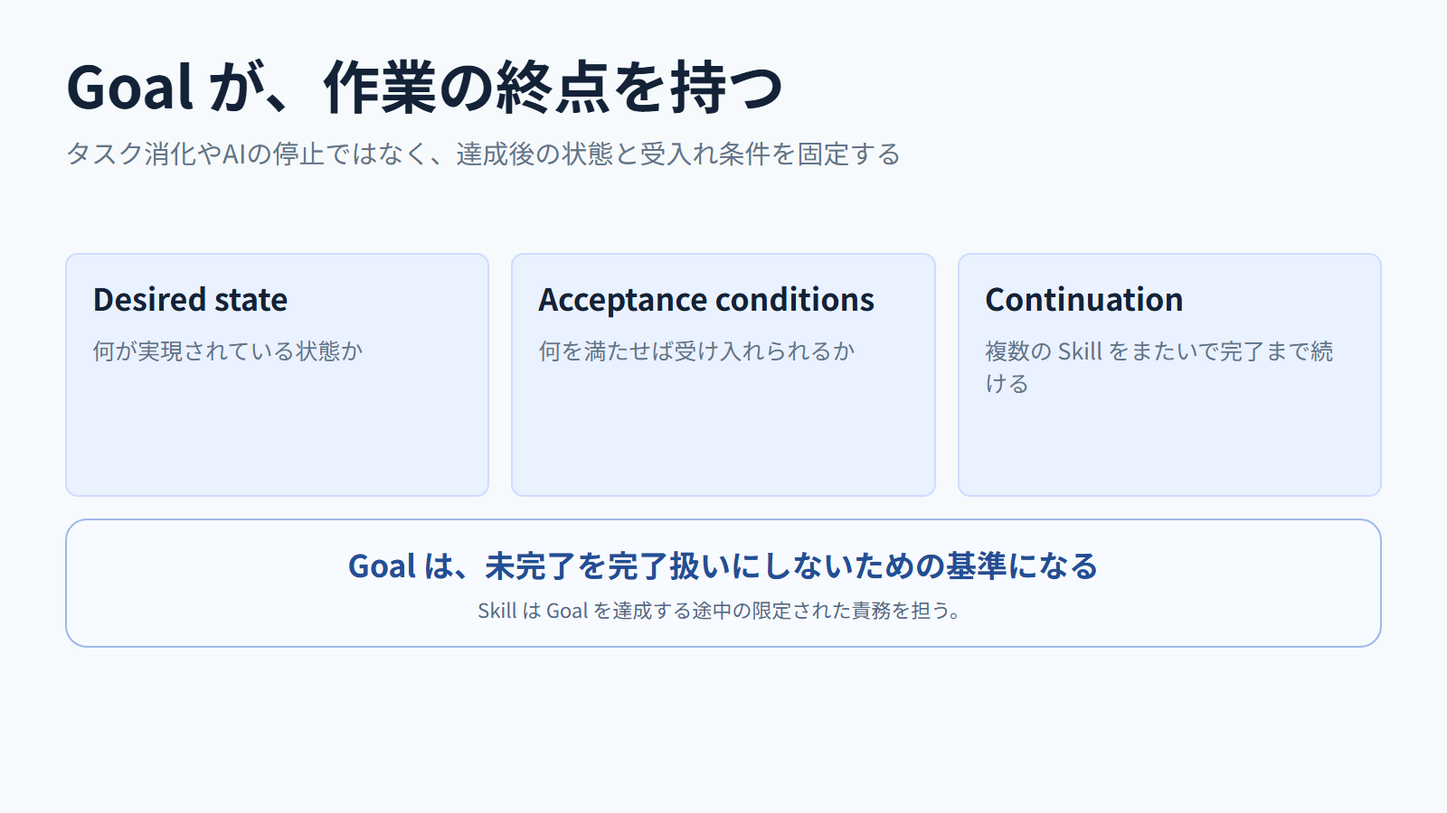
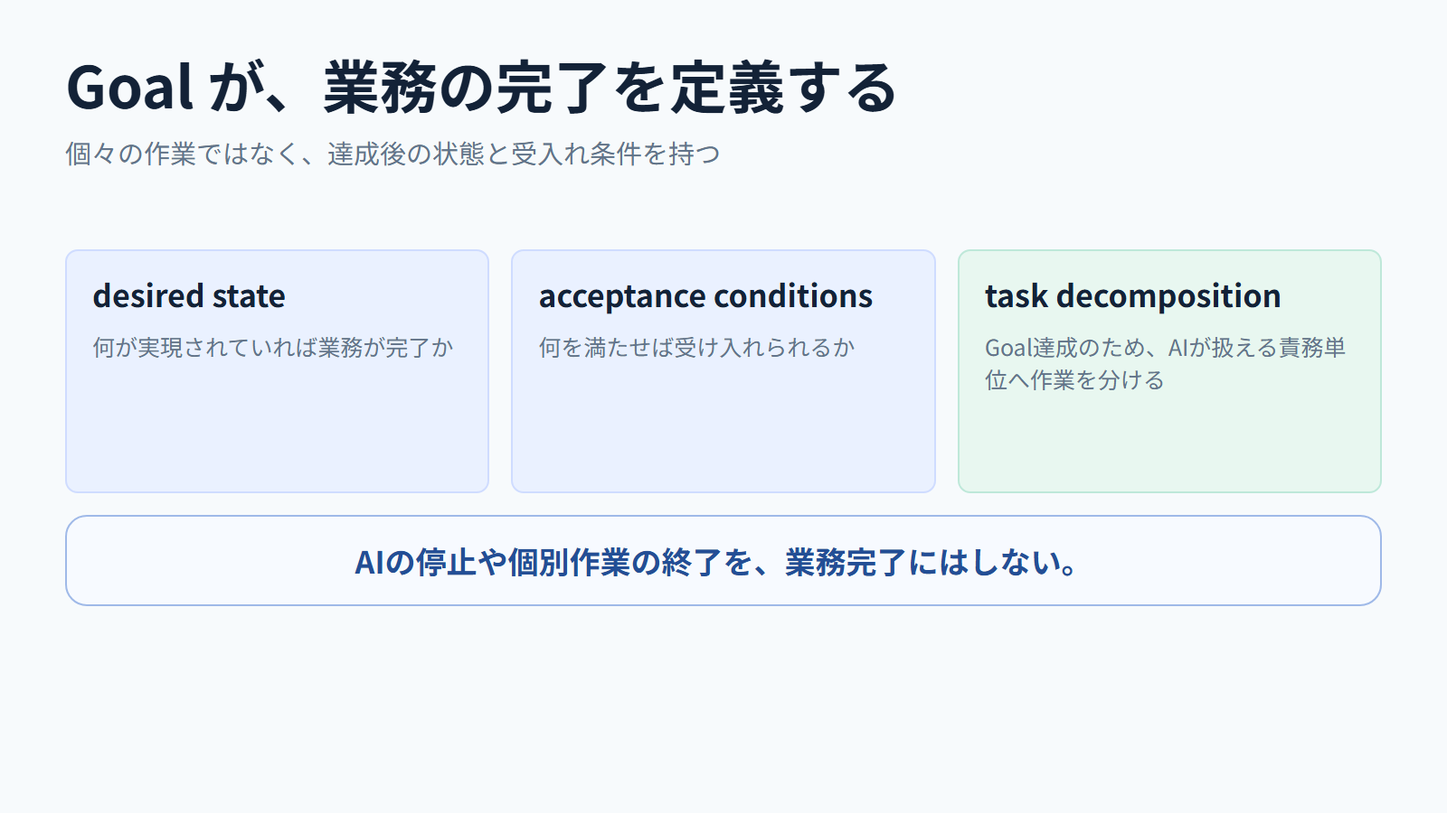
Rebuild Deck 055 execution narrative

diff --git a/site/ja/slides/why-ai-organization-needed/index.html b/site/ja/slides/why-ai-organization-needed/index.html
@@ -19,16 +19,16 @@
     </header>
 
     <section class="slide-list">
-      <article class="slide-card" tabindex="0" data-slide-link><img src="./00_intro.png" alt="はじめに" /><div class="slide-meta">00. はじめに</div></article>
-      <article class="slide-card" tabindex="0" data-slide-link><img src="./01_title.png" alt="AI活用を継続可能な業務実行に変える" /><div class="slide-meta">01. タイトル</div></article>
-      <article class="slide-card" tabindex="0" data-slide-link><img src="./02_individual_limit.png" alt="個人利用だけでは、仕事の状態が残らない" /><div class="slide-meta">02. 個人利用の限界</div></article>
-      <article class="slide-card" tabindex="0" data-slide-link><img src="./03_input_organization.png" alt="Goal が、作業の終点を持つ" /><div class="slide-meta">03. Goal</div></article>
-      <article class="slide-card" tabindex="0" data-slide-link><img src="./04_scattered_controls.png" alt="semantic routing が、次の責務を選ぶ" /><div class="slide-meta">04. semantic routing</div></article>
-      <article class="slide-card" tabindex="0" data-slide-link><img src="./05_organization_role.png" alt="Skill は、AI の責務を限定する" /><div class="slide-meta">05. Skill</div></article>
-      <article class="slide-card" tabindex="0" data-slide-link><img src="./06_organization_value.png" alt="Knowledge は、必要な XID だけを読む" /><div class="slide-meta">06. Knowledge</div></article>
-      <article class="slide-card" tabindex="0" data-slide-link><img src="./07_human_control_unit.png" alt="workflow protocol が、作業漏れを検査する" /><div class="slide-meta">07. workflow protocol</div></article>
+      <article class="slide-card" tabindex="0" data-slide-link><img src="./00_intro.png" alt="AI活用を継続可能な業務実行に変える" /><div class="slide-meta">00. 主題</div></article>
+      <article class="slide-card" tabindex="0" data-slide-link><img src="./01_title.png" alt="毎回のプロンプト主体の利用方法では、業務の状態が残らない" /><div class="slide-meta">01. 状態が残らない問題</div></article>
+      <article class="slide-card" tabindex="0" data-slide-link><img src="./02_individual_limit.png" alt="AIは、途中で作業を終えても完了として扱いやすい" /><div class="slide-meta">02. 途中終了</div></article>
+      <article class="slide-card" tabindex="0" data-slide-link><img src="./03_input_organization.png" alt="Goal が、業務の完了を定義する" /><div class="slide-meta">03. Goal</div></article>
+      <article class="slide-card" tabindex="0" data-slide-link><img src="./04_scattered_controls.png" alt="AIには、限定した責務を担当させる" /><div class="slide-meta">04. Skill</div></article>
+      <article class="slide-card" tabindex="0" data-slide-link><img src="./05_organization_role.png" alt="semantic routing が、分割した作業をGoalへつなぐ" /><div class="slide-meta">05. semantic routing</div></article>
+      <article class="slide-card" tabindex="0" data-slide-link><img src="./06_organization_value.png" alt="workflow protocol が、未完了の仕事を残す" /><div class="slide-meta">06. workflow protocol</div></article>
+      <article class="slide-card" tabindex="0" data-slide-link><img src="./07_human_control_unit.png" alt="AI活用には、組織固有のKnowledgeが必要" /><div class="slide-meta">07. Knowledge</div></article>
       <article class="slide-card" tabindex="0" data-slide-link><img src="./08_ai_control_unit.png" alt="検証と品質受入れを分ける" /><div class="slide-meta">08. 検証と受入れ</div></article>
-      <article class="slide-card" tabindex="0" data-slide-link><img src="./09_conclusion.png" alt="継続と改善の仕組みを持つ" /><div class="slide-meta">09. 結論</div></article>
+      <article class="slide-card" tabindex="0" data-slide-link><img src="./09_conclusion.png" alt="ログから、次の業務実行を改善する" /><div class="slide-meta">09. 改善</div></article>
     </section>
   </main>
 

diff --git a/site/sources/ja/slides/why-ai-organization-needed/index.html b/site/sources/ja/slides/why-ai-organization-needed/index.html
@@ -19,16 +19,16 @@
     </header>
 
     <section class="slide-list">
-      <article class="slide-card" tabindex="0" data-slide-link><img src="./00_intro.png" alt="はじめに" /><div class="slide-meta">00. はじめに</div></article>
-      <article class="slide-card" tabindex="0" data-slide-link><img src="./01_title.png" alt="AI活用を継続可能な業務実行に変える" /><div class="slide-meta">01. タイトル</div></article>
-      <article class="slide-card" tabindex="0" data-slide-link><img src="./02_individual_limit.png" alt="個人利用だけでは、仕事の状態が残らない" /><div class="slide-meta">02. 個人利用の限界</div></article>
-      <article class="slide-card" tabindex="0" data-slide-link><img src="./03_input_organization.png" alt="Goal が、作業の終点を持つ" /><div class="slide-meta">03. Goal</div></article>
-      <article class="slide-card" tabindex="0" data-slide-link><img src="./04_scattered_controls.png" alt="semantic routing が、次の責務を選ぶ" /><div class="slide-meta">04. semantic routing</div></article>
-      <article class="slide-card" tabindex="0" data-slide-link><img src="./05_organization_role.png" alt="Skill は、AI の責務を限定する" /><div class="slide-meta">05. Skill</div></article>
-      <article class="slide-card" tabindex="0" data-slide-link><img src="./06_organization_value.png" alt="Knowledge は、必要な XID だけを読む" /><div class="slide-meta">06. Knowledge</div></article>
-      <article class="slide-card" tabindex="0" data-slide-link><img src="./07_human_control_unit.png" alt="workflow protocol が、作業漏れを検査する" /><div class="slide-meta">07. workflow protocol</div></article>
+      <article class="slide-card" tabindex="0" data-slide-link><img src="./00_intro.png" alt="AI活用を継続可能な業務実行に変える" /><div class="slide-meta">00. 主題</div></article>
+      <article class="slide-card" tabindex="0" data-slide-link><img src="./01_title.png" alt="毎回のプロンプト主体の利用方法では、業務の状態が残らない" /><div class="slide-meta">01. 状態が残らない問題</div></article>
+      <article class="slide-card" tabindex="0" data-slide-link><img src="./02_individual_limit.png" alt="AIは、途中で作業を終えても完了として扱いやすい" /><div class="slide-meta">02. 途中終了</div></article>
+      <article class="slide-card" tabindex="0" data-slide-link><img src="./03_input_organization.png" alt="Goal が、業務の完了を定義する" /><div class="slide-meta">03. Goal</div></article>
+      <article class="slide-card" tabindex="0" data-slide-link><img src="./04_scattered_controls.png" alt="AIには、限定した責務を担当させる" /><div class="slide-meta">04. Skill</div></article>
+      <article class="slide-card" tabindex="0" data-slide-link><img src="./05_organization_role.png" alt="semantic routing が、分割した作業をGoalへつなぐ" /><div class="slide-meta">05. semantic routing</div></article>
+      <article class="slide-card" tabindex="0" data-slide-link><img src="./06_organization_value.png" alt="workflow protocol が、未完了の仕事を残す" /><div class="slide-meta">06. workflow protocol</div></article>
+      <article class="slide-card" tabindex="0" data-slide-link><img src="./07_human_control_unit.png" alt="AI活用には、組織固有のKnowledgeが必要" /><div class="slide-meta">07. Knowledge</div></article>
       <article class="slide-card" tabindex="0" data-slide-link><img src="./08_ai_control_unit.png" alt="検証と品質受入れを分ける" /><div class="slide-meta">08. 検証と受入れ</div></article>
-      <article class="slide-card" tabindex="0" data-slide-link><img src="./09_conclusion.png" alt="継続と改善の仕組みを持つ" /><div class="slide-meta">09. 結論</div></article>
+      <article class="slide-card" tabindex="0" data-slide-link><img src="./09_conclusion.png" alt="ログから、次の業務実行を改善する" /><div class="slide-meta">09. 改善</div></article>
     </section>
   </main>
 

diff --git a/human-docs/ja/assets/055_why_ai_organization_needed/02_individual_limit.html b/human-docs/ja/assets/055_why_ai_organization_needed/02_individual_limit.html
@@ -1,4 +1,4 @@
-<!doctype html><html lang="ja"><head><meta charset="utf-8" /><style>:root {
+<!doctype html><html lang="ja"><head><meta charset="utf-8"><style>:root {
   --bg: linear-gradient(135deg, #f7fafc 0%, #eef4fb 100%);
   --panel: #ffffff;
   --ink: #132237;
@@ -119,10 +119,4 @@ body {
   line-height: 1.55;
   color: var(--muted);
 }
-</style></head><body>
-    <div class="canvas">
-      <h1 class="title">個人利用だけでは、仕事の状態が残らない</h1>
-      <p class="subtitle">プロンプトと会話だけでは、次の人が同じ仕事を続けにくい</p>
-      <div class="compare" style="margin-top:84px;"><div class="panel"><span class="badge" style="font-size:20px; background:#eef2f6; color:#6b7a8c;">個人の会話</span><div class="stack"><div class="box soft-gray">判断材料が会話に散る</div><div class="box soft-gray">未確認点が残る</div><div class="box soft-gray">停止時の次作業が曖昧</div></div></div><div class="panel"><span class="badge b-red" style="font-size:20px;">組織で起きる問題</span><div class="stack"><div class="box soft-red">再説明と再調査が増える</div><div class="box soft-red">作業漏れを検出しにくい</div><div class="box soft-red">担当変更で品質が揺れる</div></div></div></div>
-      <div class="summary-band"><strong>個人の成功を、組織が再現できる仕事の状態へ変える必要がある</strong><span>その出発点が Goal と記録である。</span></div>
-    </div></body></html>
+</style></head><body><div class="canvas"><h1 class="title">AIは、途中で作業を終えても完了として扱いやすい</h1><p class="subtitle">出力終了と業務完了は、同じではない</p><div class="grid-3" style="margin-top:88px;"><div class="card soft-blue"><h3>AIの応答</h3><p>その時点の要求に対して出力を返す</p></div><div class="card soft-blue"><h3>残りやすい問題</h3><p>未了項目、確認待ち、例外、根拠</p></div><div class="card soft-red"><h3>起きる誤認</h3><p>出力が終わったので業務も終わったと扱う</p></div></div><div class="summary-band"><strong>業務全体の未了事項と受入れ条件は、別の仕組みで残す必要がある。</strong></div></div></body></html>

diff --git a/human-docs/ja/assets/055_why_ai_organization_needed/08_ai_control_unit.html b/human-docs/ja/assets/055_why_ai_organization_needed/08_ai_control_unit.html
@@ -1,4 +1,4 @@
-<!doctype html><html lang="ja"><head><meta charset="utf-8" /><style>:root {
+<!doctype html><html lang="ja"><head><meta charset="utf-8"><style>:root {
   --bg: linear-gradient(135deg, #f7fafc 0%, #eef4fb 100%);
   --panel: #ffffff;
   --ink: #132237;
@@ -119,7 +119,4 @@ body {
   line-height: 1.55;
   color: var(--muted);
 }
-</style></head><body>
-    <div class="canvas"><h1 class="title">検証と品質受入れを分ける</h1><p class="subtitle">作業記録の完全性と、成果物を受け入れるかは別の判断である</p>
-      <div class="compare" style="margin-top:88px;"><div class="panel"><span class="badge b-blue" style="font-size:20px;">deterministic verification</span><div class="stack"><div class="box soft-blue">workflow の記録に漏れがないか</div><div class="box soft-blue">役割と progression が正しいか</div><div class="box soft-blue">成果物の内容は判定しない</div></div></div><div class="panel"><span class="badge b-green" style="font-size:20px;">quality and human acceptance</span><div class="stack"><div class="box soft-green">成果物が受入れ可能か</div><div class="box soft-green">品質レビューが必要か</div><div class="box soft-green">Goal、例外、承認を人間が担う</div></div></div></div>
-      <div class="summary-band"><strong>検証を通っても、内容の受入れを自動で主張しない</strong><span>人間の意思決定とAIの実行責務を混ぜない。</span></div></div></body></html>
+</style></head><body><div class="canvas"><h1 class="title">作業漏れの検証と、成果物の受入れを分ける</h1><p class="subtitle">作業記録の完全性と、成果物を採用するかは別の判断である</p><div class="grid-3" style="margin-top:88px;"><div class="card soft-blue"><h3>xrefkit skill verify</h3><p>work item、artifact、concern、role、phaseを検査する</p></div><div class="card soft-blue"><h3>quality review</h3><p>必要なとき、成果物の受入れ可能性を確認する</p></div><div class="card soft-green"><h3>human decision</h3><p>Goal、承認、例外を判断する</p></div></div><div class="summary-band"><strong>決定的な検証は、成果物内容の自動承認を主張しない。</strong></div></div></body></html>

diff --git a/human-docs/ja/assets/055_why_ai_organization_needed/07_human_control_unit.html b/human-docs/ja/assets/055_why_ai_organization_needed/07_human_control_unit.html
@@ -1,4 +1,4 @@
-<!doctype html><html lang="ja"><head><meta charset="utf-8" /><style>:root {
+<!doctype html><html lang="ja"><head><meta charset="utf-8"><style>:root {
   --bg: linear-gradient(135deg, #f7fafc 0%, #eef4fb 100%);
   --panel: #ffffff;
   --ink: #132237;
@@ -119,7 +119,4 @@ body {
   line-height: 1.55;
   color: var(--muted);
 }
-</style></head><body>
-    <div class="canvas"><h1 class="title">workflow protocol が、作業漏れを検査する</h1><p class="subtitle">各 Skill Run に、実行に必要な状態と根拠を残す</p>
-      <div class="grid-4" style="margin-top:88px; gap:16px;"><div class="card soft-blue"><h3>work item</h3><p>何を行うか</p></div><div class="card soft-blue"><h3>artifact / evidence</h3><p>何を出し、何に基づくか</p></div><div class="card soft-blue"><h3>unknown / risk</h3><p>何が未確定か</p></div><div class="card soft-blue"><h3>handoff</h3><p>次に誰が何をするか</p></div></div>
-      <div class="summary-band"><strong><code>xrefkit skill verify</code> は、記録された workflow progression を決定的に検査する</strong><span>AI の自己申告ではなく、work item、artifact、concern、役割、phase を確認する。</span></div></div></body></html>
+</style></head><body><div class="canvas"><h1 class="title">AI活用には、組織固有のKnowledgeが必要</h1><p class="subtitle">一般化された学習知識だけでは、組織の業務判断を支えられない</p><div class="grid-3" style="margin-top:88px;"><div class="card soft-blue"><h3>AIが持つ一般知識</h3><p>概念、方法、一般的な事例</p></div><div class="card soft-blue"><h3>組織固有Knowledge</h3><p>ルール、対象情報、例外、過去の判断、責任境界</p></div><div class="card soft-green"><h3>段階的な参照</h3><p>XIDを選び、必要な本文だけを判断へ使う</p></div></div><div class="summary-band"><strong>Knowledgeは、AIの一般知識を組織固有の業務判断へ接続する。</strong></div></div></body></html>

diff --git a/human-docs/ja/assets/055_why_ai_organization_needed/09_conclusion.html b/human-docs/ja/assets/055_why_ai_organization_needed/09_conclusion.html
@@ -1,4 +1,4 @@
-<!doctype html><html lang="ja"><head><meta charset="utf-8" /><style>:root {
+<!doctype html><html lang="ja"><head><meta charset="utf-8"><style>:root {
   --bg: linear-gradient(135deg, #f7fafc 0%, #eef4fb 100%);
   --panel: #ffffff;
   --ink: #132237;
@@ -119,7 +119,4 @@ body {
   line-height: 1.55;
   color: var(--muted);
 }
-</style></head><body>
-    <div class="canvas"><h1 class="title">継続と改善の仕組みを持つ</h1><p class="subtitle">速度だけでなく、再開、handoff、検証、改善までを仕事として扱う</p>
-      <div class="grid-3" style="margin-top:96px;"><div class="card soft-blue"><h3>継続できる</h3><p>Goal とログから、途中で止まっても再開できる</p></div><div class="card soft-green"><h3>検証できる</h3><p>作業漏れと品質受入れを別々に確認できる</p></div><div class="card soft-orange"><h3>改善できる</h3><p>routing、Skill、Knowledge、XID利用を観測して直せる</p></div></div>
-      <div class="summary-band"><strong>AI の速さを、手戻り削減と継続可能な業務実行へ変える</strong><span>Goal、Skill、Knowledge、workflow protocol を接続して実現する。</span></div></div></body></html>
+</style></head><body><div class="canvas"><h1 class="title">ログから、次の業務実行を改善する</h1><p class="subtitle">観測は監査の終点ではなく、次の実行を良くする入力である</p><div class="grid-3" style="margin-top:88px;"><div class="card soft-blue"><h3>相関する</h3><p>Skill RunとMCPをrun_idで結び付ける</p></div><div class="card soft-blue"><h3>区別して見る</h3><p>XIDの選択、解決、ロード、適用を分ける</p></div><div class="card soft-green"><h3>正本を改善する</h3><p>routing、Skill、Knowledgeを証拠から更新する</p></div></div><div class="summary-band"><strong>継続・検証・改善できることが、AI活用を業務実行に変える。</strong></div></div></body></html>

diff --git a/human-docs/ja/assets/055_why_ai_organization_needed/00_intro.html b/human-docs/ja/assets/055_why_ai_organization_needed/00_intro.html
@@ -1,4 +1,4 @@
-<!doctype html><html lang="ja"><head><meta charset="utf-8" /><style>:root {
+<!doctype html><html lang="ja"><head><meta charset="utf-8"><style>:root {
   --bg: linear-gradient(135deg, #f7fafc 0%, #eef4fb 100%);
   --panel: #ffffff;
   --ink: #132237;
@@ -119,15 +119,4 @@ body {
   line-height: 1.55;
   color: var(--muted);
 }
-</style></head><body>
-    <div class="canvas">
-      <h1 class="title">はじめに</h1>
-      <p class="subtitle">AI の回答を、組織の完了した仕事へ変えるには何が必要か</p>
-
-  <div class="grid-3" style="margin-top:92px;">
-    <div class="card soft-blue"><h3>AI は速く答える</h3><p>生成と調査をすばやく進められる</p></div>
-<div class="card soft-blue"><h3>しかし仕事は残る</h3><p>確認、根拠、次の担当、受入れが会話に埋もれる</p></div>
-<div class="card soft-blue"><h3>運用が必要になる</h3><p>途中で止まっても、仕事を失わずに続ける</p></div>
-  </div>
-      <div class="summary-band"><strong>回答が出たことと、仕事が完了したことは同じではない</strong><span>継続、検証、改善できる運用を持つことが必要になる。</span></div>
-    </div></body></html>
+</style></head><body><div class="canvas"><h1 class="title">AI活用を継続可能な業務実行に変える</h1><p class="subtitle">途中で止まっても、再開・検証・受入れ・改善できる仕事にする</p><div class="grid-3" style="margin-top:88px;"><div class="card soft-blue"><h3>継続</h3><p>中断しても、未完了を残して再開できる</p></div><div class="card soft-blue"><h3>検証</h3><p>作業漏れと根拠を確認できる</p></div><div class="card soft-green"><h3>改善</h3><p>実行ログから次の運用を良くする</p></div></div><div class="summary-band"><strong>AI活用を、単発の会話から継続可能な業務実行へ変える。</strong></div></div></body></html>

diff --git a/human-docs/ja/assets/055_why_ai_organization_needed/03_input_organization.html b/human-docs/ja/assets/055_why_ai_organization_needed/03_input_organization.html
@@ -1,4 +1,4 @@
-<!doctype html><html lang="ja"><head><meta charset="utf-8" /><style>:root {
+<!doctype html><html lang="ja"><head><meta charset="utf-8"><style>:root {
   --bg: linear-gradient(135deg, #f7fafc 0%, #eef4fb 100%);
   --panel: #ffffff;
   --ink: #132237;
@@ -119,12 +119,4 @@ body {
   line-height: 1.55;
   color: var(--muted);
 }
-</style></head><body>
-    <div class="canvas"><h1 class="title">Goal が、作業の終点を持つ</h1><p class="subtitle">タスク消化やAIの停止ではなく、達成後の状態と受入れ条件を固定する</p>
-
-  <div class="grid-3" style="margin-top:92px;">
-    <div class="card soft-blue"><h3>Desired state</h3><p>何が実現されている状態か</p></div>
-<div class="card soft-blue"><h3>Acceptance conditions</h3><p>何を満たせば受け入れられるか</p></div>
-<div class="card soft-blue"><h3>Continuation</h3><p>複数の Skill をまたいで完了まで続ける</p></div>
-  </div>
-      <div class="summary-band"><strong>Goal は、未完了を完了扱いにしないための基準になる</strong><span>Skill は Goal を達成する途中の限定された責務を担う。</span></div></div></body></html>
+</style></head><body><div class="canvas"><h1 class="title">Goal が、業務の完了を定義する</h1><p class="subtitle">個々の作業ではなく、達成後の状態と受入れ条件を持つ</p><div class="grid-3" style="margin-top:88px;"><div class="card soft-blue"><h3>desired state</h3><p>何が実現されていれば業務が完了か</p></div><div class="card soft-blue"><h3>acceptance conditions</h3><p>何を満たせば受け入れられるか</p></div><div class="card soft-green"><h3>task decomposition</h3><p>Goal達成のため、AIが扱える責務単位へ作業を分ける</p></div></div><div class="summary-band"><strong>AIの停止や個別作業の終了を、業務完了にはしない。</strong></div></div></body></html>

diff --git a/human-docs/ja/assets/055_why_ai_organization_needed/06_organization_value.html b/human-docs/ja/assets/055_why_ai_organization_needed/06_organization_value.html
@@ -1,4 +1,4 @@
-<!doctype html><html lang="ja"><head><meta charset="utf-8" /><style>:root {
+<!doctype html><html lang="ja"><head><meta charset="utf-8"><style>:root {
   --bg: linear-gradient(135deg, #f7fafc 0%, #eef4fb 100%);
   --panel: #ffffff;
   --ink: #132237;
@@ -119,7 +119,4 @@ body {
   line-height: 1.55;
   color: var(--muted);
 }
-</style></head><body>
-    <div class="canvas"><h1 class="title">Knowledge は、必要な XID だけを読む</h1><p class="subtitle">対象一覧と詳細を分け、必要な判断材料だけを段階的に取り込む</p>
-      <div class="grid-3" style="margin-top:98px;"><div class="card soft-blue"><h3>catalog</h3><p>候補の領域と XID を一覧で見つける</p></div><div class="card soft-blue"><h3>select and resolve</h3><p>必要な XID の本文だけを取得する</p></div><div class="card soft-blue"><h3>apply</h3><p>判断・成果物との関係を記録する</p></div></div>
-      <div class="summary-band"><strong>全体を毎回読み込まないことで、コンテキスト汚染を抑える</strong><span>使用状況はログから確認し、不要・不足の Knowledge を改善する。</span></div></div></body></html>
+</style></head><body><div class="canvas"><h1 class="title">workflow protocol が、未完了の仕事を残す</h1><p class="subtitle">Skill Runごとに状態と根拠を記録し、次の責任地点へ渡す</p><div class="grid-3" style="margin-top:88px;"><div class="card soft-blue"><h3>実行記録</h3><p>work item、artifact、evidenceを残す</p></div><div class="card soft-blue"><h3>未確定の記録</h3><p>unknown、risk、judgmentを明示する</p></div><div class="card soft-green"><h3>次へ渡す</h3><p>handoffとcloseで、次の責任地点を固定する</p></div></div><div class="summary-band"><strong>AIが途中で止まっても、次のSkillまたは人間が状態から続けられる。</strong></div></div></body></html>

diff --git a/human-docs/ja/assets/055_why_ai_organization_needed/04_scattered_controls.html b/human-docs/ja/assets/055_why_ai_organization_needed/04_scattered_controls.html
@@ -1,4 +1,4 @@
-<!doctype html><html lang="ja"><head><meta charset="utf-8" /><style>:root {
+<!doctype html><html lang="ja"><head><meta charset="utf-8"><style>:root {
   --bg: linear-gradient(135deg, #f7fafc 0%, #eef4fb 100%);
   --panel: #ffffff;
   --ink: #132237;
@@ -119,7 +119,4 @@ body {
   line-height: 1.55;
   color: var(--muted);
 }
-</style></head><body>
-    <div class="canvas"><h1 class="title">semantic routing が、次の責務を選ぶ</h1><p class="subtitle">Goal と現在状態から、次に必要な Skill を選択する</p>
-      <div class="grid-3" style="margin-top:98px;"><div class="card soft-blue"><h3>Goal と現在状態</h3><p>何を達成し、何が未了かを確認する</p></div><div class="card soft-blue"><h3>semantic routing</h3><p>候補の Skill から適用可能な責務を選ぶ</p></div><div class="card soft-blue"><h3>次の Skill Run</h3><p>選んだ責務を実行し、結果を Goal へ戻す</p></div></div>
-      <div class="summary-band"><strong>人が毎回一覧から手選びするのではなく、状態に応じて責務を選ぶ</strong><span>選択理由も記録し、後で見直せるようにする。</span></div></div></body></html>
+</style></head><body><div class="canvas"><h1 class="title">AIには、限定した責務を担当させる</h1><p class="subtitle">分割した作業を、判断とhandoffの境界を持つSkillとして扱う</p><div class="grid-3" style="margin-top:88px;"><div class="card soft-blue"><h3>担当範囲</h3><p>何を行い、どこまで責任を持つか</p></div><div class="card soft-blue"><h3>判断と入出力</h3><p>何を見て、何を返すか</p></div><div class="card soft-green"><h3>Knowledgeとhandoff</h3><p>何を参照し、どこで次へ渡すか</p></div></div><div class="summary-band"><strong>責務を限定することで、AIは必要な判断と成果物に集中できる。</strong></div></div></body></html>

diff --git a/human-docs/ja/assets/055_why_ai_organization_needed/05_organization_role.html b/human-docs/ja/assets/055_why_ai_organization_needed/05_organization_role.html
@@ -1,4 +1,4 @@
-<!doctype html><html lang="ja"><head><meta charset="utf-8" /><style>:root {
+<!doctype html><html lang="ja"><head><meta charset="utf-8"><style>:root {
   --bg: linear-gradient(135deg, #f7fafc 0%, #eef4fb 100%);
   --panel: #ffffff;
   --ink: #132237;
@@ -119,12 +119,4 @@ body {
   line-height: 1.55;
   color: var(--muted);
 }
-</style></head><body>
-    <div class="canvas"><h1 class="title">Skill は、AI の責務を限定する</h1><p class="subtitle">一つのAIに全てを任せず、必要な判断と成果物へ集中させる</p>
-
-  <div class="grid-3" style="margin-top:92px;">
-    <div class="card soft-blue"><h3>責務と判断</h3><p>何を担当し、どの方法で判断するか</p></div>
-<div class="card soft-blue"><h3>入出力と Knowledge</h3><p>何を受け取り、何を返し、何を参照するか</p></div>
-<div class="card soft-blue"><h3>handoff 境界</h3><p>どこで次の責務や人間へ渡すか</p></div>
-  </div>
-      <div class="summary-band"><strong>責務が限定されるほど、AI は必要な判断に集中できる</strong><span>Skill は方法を持ち、Knowledge は判断材料を持つ。</span></div></div></body></html>
+</style></head><body><div class="canvas"><h1 class="title">semantic routing が、分割した作業をGoalへつなぐ</h1><p class="subtitle">Goalと現在状態から、次に必要なSkillを選ぶ</p><div class="grid-3" style="margin-top:88px;"><div class="card soft-blue"><h3>Goalと現在状態</h3><p>何が達成済みで、何が未了か</p></div><div class="card soft-blue"><h3>semantic routing</h3><p>候補から次に必要な責務を選ぶ</p></div><div class="card soft-green"><h3>次のSkill Run</h3><p>個別完了をGoal達成と混同せず、終点へ進める</p></div></div><div class="summary-band"><strong>分割された作業を、全体の目的から切り離さない。</strong></div></div></body></html>

diff --git a/human-docs/ja/assets/055_why_ai_organization_needed/01_title.html b/human-docs/ja/assets/055_why_ai_organization_needed/01_title.html
@@ -1,4 +1,4 @@
-<!doctype html><html lang="ja"><head><meta charset="utf-8" /><style>:root {
+<!doctype html><html lang="ja"><head><meta charset="utf-8"><style>:root {
   --bg: linear-gradient(135deg, #f7fafc 0%, #eef4fb 100%);
   --panel: #ffffff;
   --ink: #132237;
@@ -119,10 +119,4 @@ body {
   line-height: 1.55;
   color: var(--muted);
 }
-</style></head><body>
-    <div class="canvas">
-      <h1 class="title">AI活用を継続可能な業務実行に変える</h1>
-      <p class="subtitle">Goalから完了までを、継続・検証・改善できる形にする</p>
-      <div class="hero-note">AI が途中で止まっても、未確認の仕事を完了扱いにしない。<br>誰が再開しても、同じ記録と境界から仕事を続けられるようにする。</div>
-      <div class="summary-band" style="margin-top:42px;"><strong>AI活用を継続可能な業務実行に変える</strong><span>そのために、役割、知識、記録、受入れを分けて管理する。</span></div>
-    </div></body></html>
+</style></head><body><div class="canvas"><h1 class="title">毎回のプロンプト主体の利用方法では、業務の状態が残らない</h1><p class="subtitle">会話を終えるたびに、次の仕事に必要な状態が失われる</p><div class="grid-3" style="margin-top:88px;"><div class="card soft-blue"><h3>判断材料</h3><p>何を根拠に判断したか</p></div><div class="card soft-blue"><h3>未確認点</h3><p>何がまだ分からないか</p></div><div class="card soft-orange"><h3>次作業と受入れ</h3><p>誰が何をし、何を満たせば完了か</p></div></div><div class="summary-band"><strong>次の実行者は、会話から業務の状態を再構成しなければならない。</strong></div></div></body></html>
